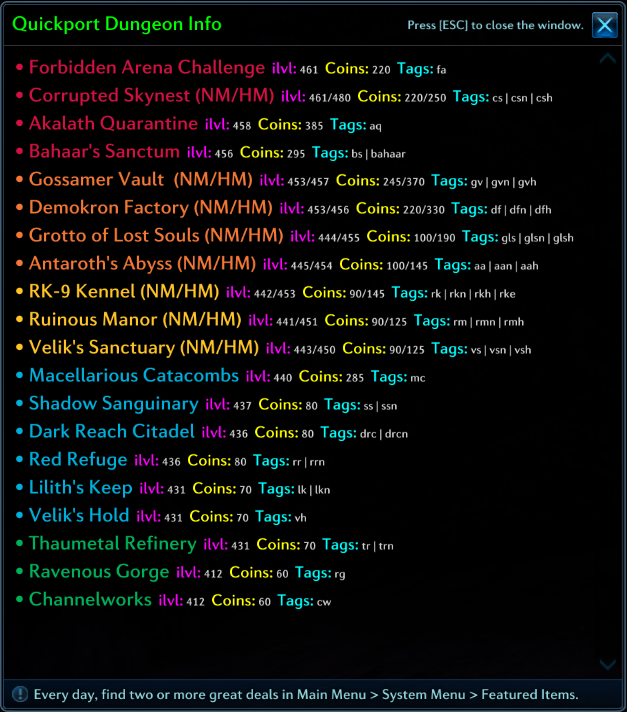
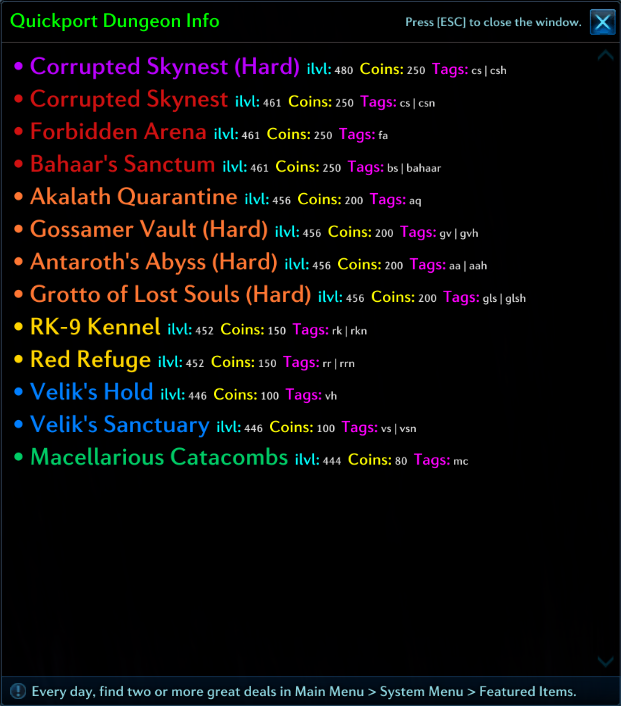
update for patch 92.3

Changed region(s): [[0.0, 0.0, 1.0, 1.0], [0.6731, 0.6232, 0.7343, 0.6856]]

diff --git a/index.js b/index.js
@@ -57,7 +57,7 @@ module.exports = function QuickportDG(mod) {
             let list = [];
             dungeons.forEach((x) => {
                 list.push({
-                    text: `<font color="${x.color}" size="+22">• ${x.name}</font> <font color="#FF00FF" size="+18"> ilvl:</font> ${x.ilvl} <font color="#FFFF00" size="+18"> Coins:</font> ${x.coins} <font color="#00FFFF" size="+18"> Tags:</font> ${x.tags}<br>`,
+                    text: `<font color="${x.color}" size="+27">• ${x.name}</font> <font color="#00FFFF" size="+18"> ilvl:</font> ${x.ilvl} <font color="#FFFF00" size="+18"> Coins:</font> ${x.coins} <font color="#FF00FF" size="+18"> Tags:</font> ${x.tags}<br>`,
                     command: `dg ${x.dg[0]}`,
                 });
             });

diff --git a/README.md b/README.md
@@ -10,7 +10,7 @@
 
 ---
 - The *definitions* above must have their opcode mapped for your region (if they are not mapped by default):
-  - NA patch **91.4** = [protocol.365097.map](https://github.com/tera-proxy/tera-data/blob/master/map/protocol.365097.map)
+  - NA patch **92.3** = [protocol.366221.map](https://github.com/tera-proxy/tera-data/blob/master/map/protocol.366221.map)
   - EU patch **92.3** = [protocol.366222.map](https://github.com/tera-proxy/tera-data/blob/master/map/protocol.366222.map)
 
 - The *.map* file containing your region's opcodes must be placed inside of:
@@ -27,28 +27,21 @@
   - to teleport to the specified dungeon name  **[tag]**
   - Example: **dg gvn** will teleport you to Gossamer Vault (**gvn** being the **[tag]**)
 
-|         Dungeon Name         |        Tags       |
-| -----------------------------|-------------------|
-| Forbidden Arena Challenge    | fa                |
-| Corrupted Skynest (NM/HM)    | cs, csn, csh      |
-| Akalath Quarantine           | aq                |
-| Bahaar's Sanctum             | bs, bahaar        |
-| Gossamer Vault  (NM/HM)      | gv, gvn, gvh      |
-| Demokron Factory (NM/HM)     | df, dfn, dfh      |
-| Grotto of Lost Souls (NM/HM) | gls, glsn, glsh   |
-| Antaroth's Abyss (NM/HM)     | aa, aan,  aah     |
-| RK-9 Kennel (NM/HM)          | rk, rkn, rkh, rke |
-| Ruinous Manor (NM/HM)        | rm, rmn, rmh      |
-| Velik's Sanctuary (NM/HM)    | vs, vsn, vsh      |
-| Macellarious Catacombs       | mc                |
-| Shadow Sanguinary            | ss, ssn           |
-| Dark Reach Citadel           | dr, drc, drcn     |
-| Red Refuge                   | rr, rrn           |
-| Lilith's Keep                | lk, lkn           |
-| Velik's Hold                 | vh                |
-| Thaumetal Refinery           | tr, trn           |
-| Ravenous Gorge               | rg                |
-| Channelworks                 | cw                |
+|        Dungeon Name         |    Tags    |
+| ----------------------------|------------|
+| Corrupted Skynest (Hard)    | cs, csh    |
+| Corrupted Skynest (NM/HM)   | cs, csn    |
+| Forbidden Arena Challenge   | fa         |
+| Bahaar's Sanctum            | bs, bahaar |
+| Akalath Quarantine          | aq         |
+| Gossamer Vault  (Hard)      | gv, gvh    |
+| Antaroth's Abyss (Hard)     | aa, aah    |
+| Grotto of Lost Souls (Hard) | gls, glsh  |
+| RK-9 Kennel                 | rk, rkn    |
+| Red Refuge                  | rr, rrn    |
+| Velik's Hold                | vh         |
+| Velik's Sanctuary           | vs, vsn    |
+| Macellarious Catacombs      | mc         |
 
 ---
 
@@ -59,6 +52,6 @@
 
 ---
 
-Patch Version: **91.4**
+Patch Version: **92.3**
 
 ![UI](/ui.png)
